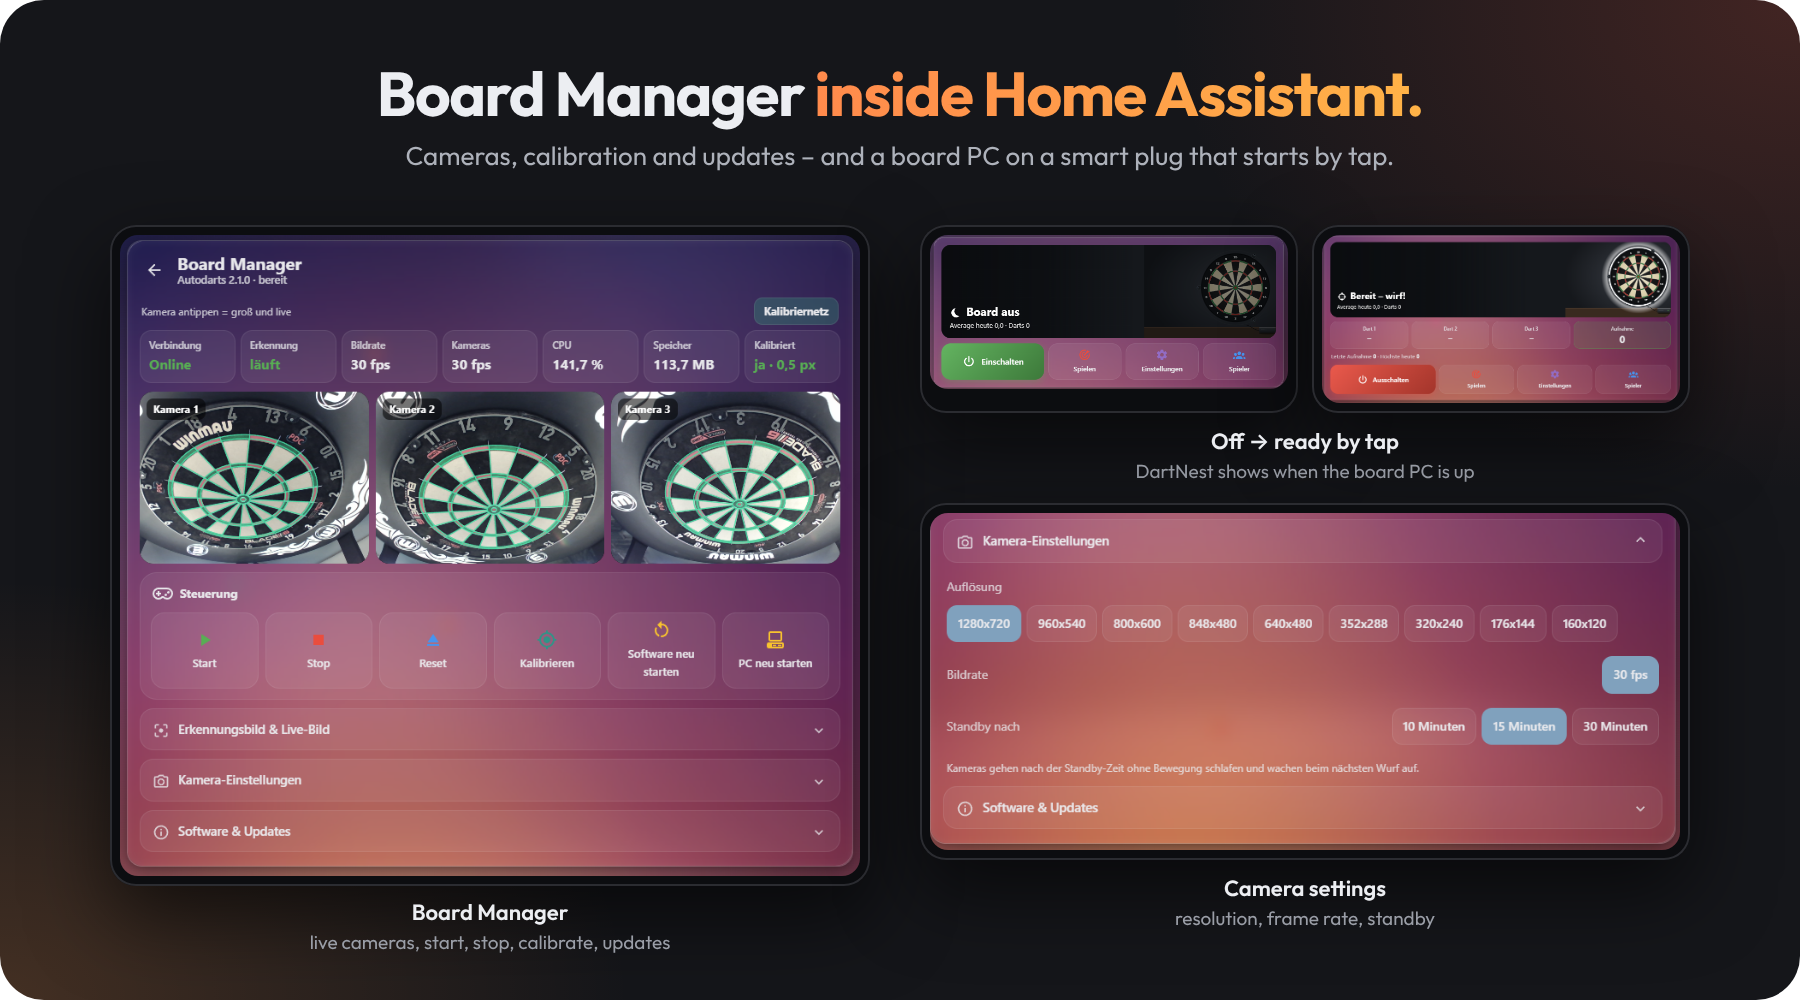
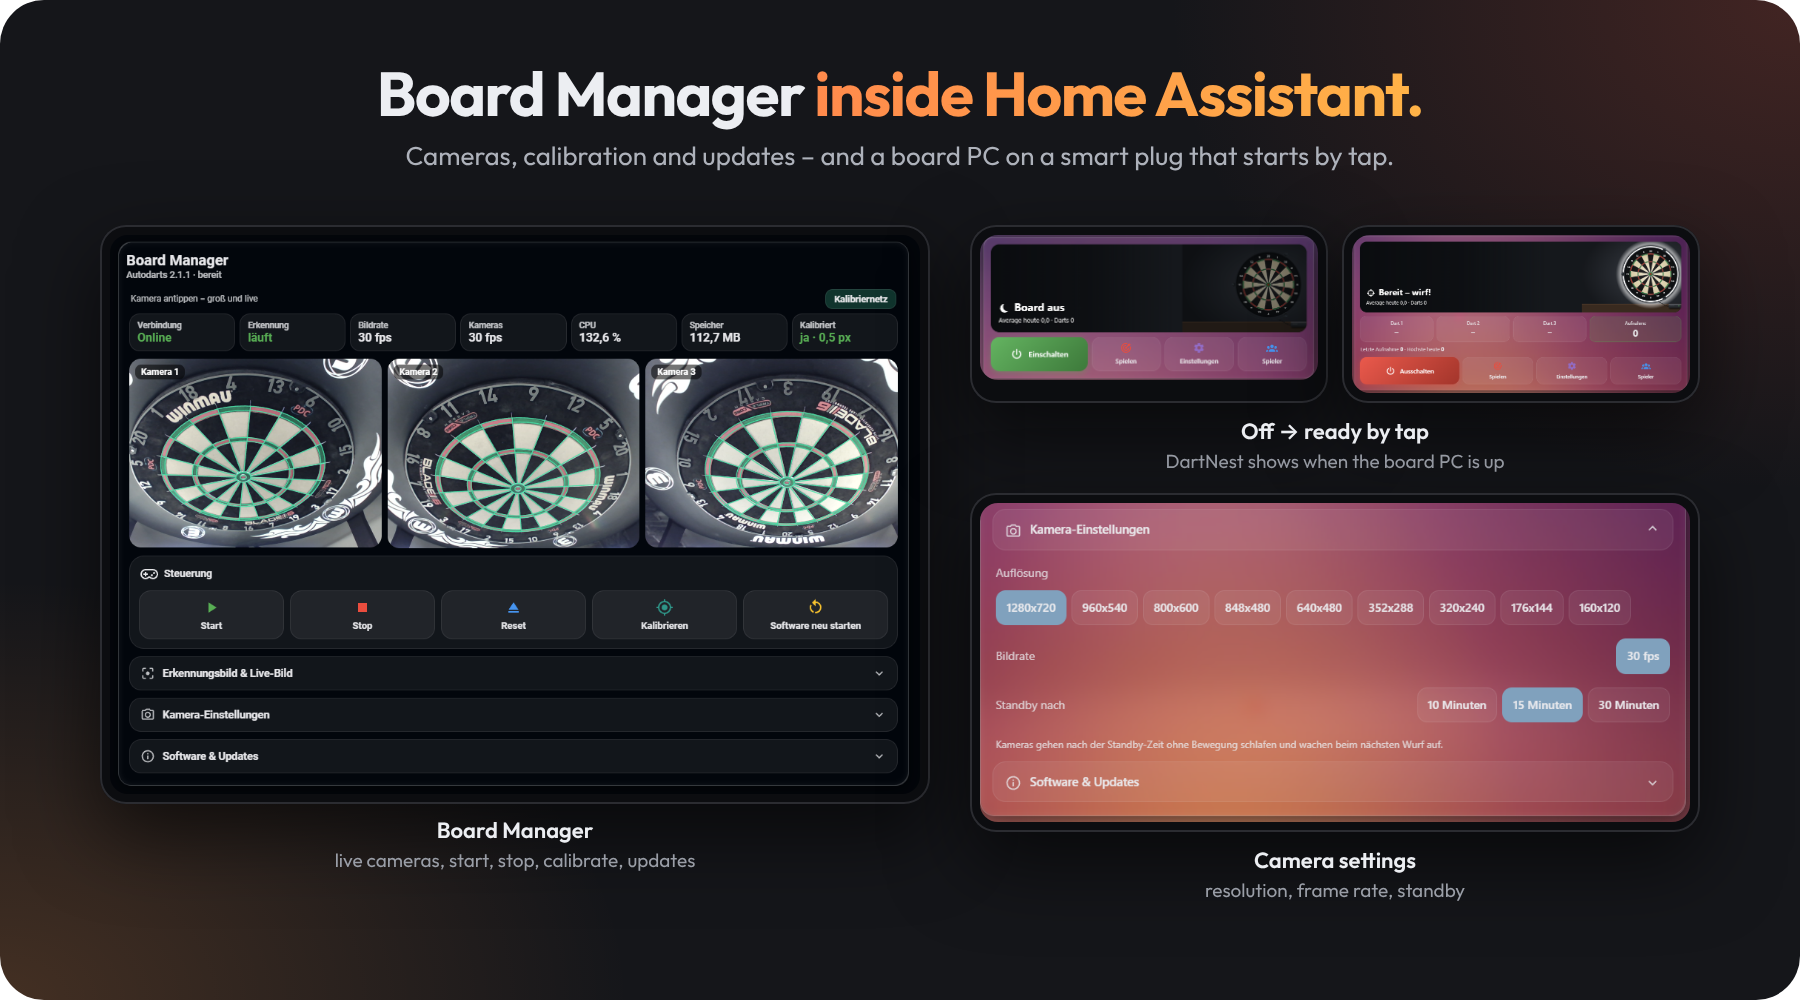
1.25.1: power button in the sidebar (#12)
* 1.25.1: power button in the sidebar (plug chosen once in the Board Manager)

Claude-Session: https://claude.ai/code/session_015s6FHNScWMw4AjePNoQubT

* Power plug: optional shut-down script, switch-on action and PC-running sensor

Claude-Session: https://claude.ai/code/session_015s6FHNScWMw4AjePNoQubT

* README: new real-board screenshots (dark theme) for the camera and Board Manager pictures

Claude-Session: https://claude.ai/code/session_015s6FHNScWMw4AjePNoQubT

---------

diff --git a/custom_components/autodarts/frontend/autodarts-cards.js b/custom_components/autodarts/frontend/autodarts-cards.js
@@ -292,6 +292,11 @@ button:disabled{opacity:.38;cursor:default;transform:none}
   };
   const gehe = pfad => { history.pushState(null, '', pfad); window.dispatchEvent(new CustomEvent('location-changed', { detail: { replace: false } })); };
   const att = (h, id) => (st(h, id) || {}).attributes || {};
+  // power plug of the board PC, chosen once in the Board Manager card; a card's own power_* options win
+  const stromCfg = h => {
+    const s = att(h, E(h, 'sensor.players')).strom || {};
+    return s.schalter || s.einschalten ? { power_on: s.einschalten || s.schalter, power_off: s.ausschalten || s.schalter, power_switch: s.schalter || undefined, power_sensor: s.leistung || undefined, pc_online: s.pc_online || undefined } : {};
+  };
   const ft = f => ({ S25: '25', D25: 'Bull', M: 'Miss' }[f] || f || '–');
   const pkt = f => { if (!f || f === 'M') return 0; return ({ S: 1, D: 2, T: 3 }[f[0]] || 0) * parseInt(f.slice(1), 10); };
   const esc = x => String(x == null ? '' : x).replace(/[&<>"]/g, c => ({ '&': '&amp;', '<': '&lt;', '>': '&gt;', '"': '&quot;' }[c]));
@@ -480,10 +485,16 @@ button:disabled{opacity:.38;cursor:default;transform:none}
 @media (max-width:520px){.szene{height:160px}.ueber{width:62%}.zt{font-size:20px}.knoepfe.haupt4{grid-template-columns:1fr 1fr 1fr}.k.haupt{grid-column:1/-1;min-height:56px}}`;
   class AutodartsOverviewCard extends HTMLElement {
     static getStubConfig() { return {}; }
-    setConfig(c) { this._c = Object.assign({}, c || {}); if (this._r) { this._r = null; this.shadowRoot.innerHTML = ''; } }
+    setConfig(c) { this._orig = Object.assign({}, c || {}); this._c = Object.assign({}, this._orig); this._stromKey = null; if (this._r) { this._r = null; this.shadowRoot.innerHTML = ''; } }
     getCardSize() { return 5; }
     getGridOptions() { return { columns: 12, min_columns: 6 }; }
-    set hass(h) { this._h = h; sprachePruefen(h); if (!this._r || this._spr !== SPR) this._bauen(); this._zeichnen(); }
+    set hass(h) {
+      this._h = h; sprachePruefen(h);
+      const sc = this._orig.power_on ? {} : stromCfg(h), key = JSON.stringify(sc);
+      if (key !== this._stromKey) { this._stromKey = key; this._c = Object.assign({}, sc, this._orig); this._r = null; }
+      if (!this._r || this._spr !== SPR) this._bauen();
+      this._zeichnen();
+    }
     _bauen() {
       this._spr = SPR;
       this._r = this.shadowRoot || this.attachShadow({ mode: 'open' });
@@ -598,6 +609,11 @@ button:disabled{opacity:.38;cursor:default;transform:none}
   customElements.define('autodarts-overview-card', AutodartsOverviewCard);
 
   /* ---------- Tile: one compact row with the board scene behind it, tap opens a window (1.24) ---------- */
+  // power plug of the board PC for every card (1.25.1)
+  Object.assign(TEXTE.en, { plug_title: 'Board PC power plug', plug_none: 'None', plug_switch: 'Power plug', plug_leistung: 'Power meter (optional)', plug_einschalten: 'Switch on with (optional)', plug_ausschalten: 'Shut down with (optional)', plug_pc_online: 'PC running (optional)', plug_pick: 'Choose …',
+    plug_hint: 'The plug the board PC is connected to. Every DartNest card – also in the sidebar – then shows the power button. With a power meter DartNest knows when the PC is really off. Have a script that shuts the PC down first? Choose it under “Shut down with”, otherwise the plug is simply switched off.' });
+  Object.assign(TEXTE.de, { plug_title: 'Steckdose des Board-PCs', plug_none: 'Keine', plug_switch: 'Steckdose', plug_leistung: 'Leistungsmesser (optional)', plug_einschalten: 'Einschalten mit (optional)', plug_ausschalten: 'Herunterfahren mit (optional)', plug_pc_online: 'PC läuft (optional)', plug_pick: 'Auswählen …',
+    plug_hint: 'Die Steckdose, an der der Board-PC hängt. Alle DartNest-Karten – auch in der Seitenleiste – zeigen dann den Ein/Aus-Knopf. Mit Leistungsmesser erkennt DartNest, wann der PC wirklich aus ist. Du hast ein Skript, das den PC erst herunterfährt? Dann wähle es bei „Herunterfahren mit“, sonst wird einfach die Steckdose ausgeschaltet.' });
   Object.assign(TEXTE.en, { d_tile: 'One compact row with the board scene behind it; tap opens a window with live darts, power, shortcuts and today', tile_tap: 'Tap for play, power and settings', today: 'Today', t_close: 'Close' });
   Object.assign(TEXTE.de, { d_tile: 'Eine kompakte Zeile mit der Board-Szene dahinter; Tippen öffnet ein Fenster mit Live-Würfen, Ein/Aus, Abkürzungen und Heute', tile_tap: 'Antippen für Spielen, Ein/Aus und Einstellungen', today: 'Heute', t_close: 'Schließen' });
   const SZ_F = { aus: GR, startet: A, runter: A, bereit: G, ziehen: A, kalib: '#26a69a', gestoppt: B, weg: A };
@@ -1816,7 +1832,7 @@ ha-card.fx-stoss{animation:fx-stoss .45s ease-out}
         s += '</div>';
       }
       if (!boardOnline(this._h) && !L.spieler.every(x => x.startsWith('bot:')))
-        s += '<div class="warn"><ha-icon icon="mdi:power-plug-off-outline"></ha-icon><span>' + t('board_off_hint') + '</span>' + (this._c.power_on ? '<button data-act="pcein">' + t('on') + '</button>' : '') + '</div>';
+        s += '<div class="warn"><ha-icon icon="mdi:power-plug-off-outline"></ha-icon><span>' + t('board_off_hint') + '</span>' + ((this._c.power_on || stromCfg(this._h).power_on) ? '<button data-act="pcein">' + t('on') + '</button>' : '') + '</div>';
       const gr = !tur && ART_SPIELER[L.spiel], falsch = gr && L.spieler.length && (L.spieler.length < gr[0] || L.spieler.length > gr[1]);
       if (falsch) s += '<div class="warn"><ha-icon icon="mdi:account-alert-outline"></ha-icon><span>' + t(gr[0] === gr[1] ? 'needs_exact' : 'needs_min', { g: t('a_' + L.spiel), n: gr[0] }) + '</span></div>';
       s += tur ? '<button class="start" data-act="turstart"><ha-icon icon="mdi:tournament"></ha-icon>' + t('start_tour') + '</button></div>'
@@ -2155,7 +2171,7 @@ ha-card.fx-stoss{animation:fx-stoss .45s ease-out}
           this._dienst('spieler_anlegen', { name });
           break;
         }
-        case 'pcein': if (this._c.power_on) ausloesen(h, this._c.power_on, false); break;
+        case 'pcein': { const ein = this._c.power_on || stromCfg(h).power_on; if (ein) ausloesen(h, ein, false); break; }
         case 'start': case 'turstart':
           this._dienst(act === 'turstart' ? 'turnier_starten' : 'spiel_starten', { spieler: L.spieler, spiel: L.spiel, startwert: L.startwert, legs: L.legs, sets: L.spiel === 'x01' ? L.sets : 0, einwurf: L.einwurf, auswurf: L.auswurf, bull_off: L.bull_off,
             variante: L.variante || '', zahlen: L.zahlen, runden: L.runden || 0, leben: L.leben, zielwert: L.zielwert || 0, ...(act === 'turstart' ? { turnier_modus: this._turMod || 'ko' } : {}) });
@@ -2190,6 +2206,11 @@ ha-card.fx-stoss{animation:fx-stoss .45s ease-out}
 
   /* ---------- Board Manager card ---------- */
   const MGR_CSS = `
+.ll{max-height:320px;overflow:auto;border-radius:14px;padding:4px}
+.ll label{display:flex;align-items:center;gap:10px;margin:0;padding:10px;border-radius:10px;font-size:14px;font-weight:500;color:var(--primary-text-color);cursor:pointer}
+.ll label:hover{background:color-mix(in srgb,var(--primary-text-color) 6%,transparent)}
+.ll label ha-icon{--mdc-icon-size:20px;color:var(--secondary-text-color)}
+.ll small{margin-left:auto;color:var(--secondary-text-color);font-size:11.5px}
 .werte{display:grid;grid-template-columns:repeat(auto-fit,minmax(104px,1fr));gap:6px;margin-bottom:10px}
 .wt{border-radius:14px;padding:8px 10px;cursor:pointer}
 .wt small{display:block;font-size:11.5px;color:var(--secondary-text-color);font-weight:600}
@@ -2300,6 +2321,13 @@ ha-card.fx-stoss{animation:fx-stoss .45s ease-out}
         s += '<div class="aufinhalt">' + sel(E(h, 'select.camera_resolution'), t('resolution')) + sel(E(h, 'select.camera_fps_setting'), t('fps'), o => o + ' fps') +
           sel(E(h, 'select.camera_standby'), t('standby'), o => (/^\d+$/.test(o) ? t('minutes', { n: o }) : o)) + '<div class="klein">' + t('standby_hint') + '</div></div>';
       }
+      const strom = att(h, E(h, 'sensor.players')).strom || {}, nm = id => id ? esc((st(h, id) && st(h, id).attributes.friendly_name) || id) : '–';
+      s += auf('strom', this._auf.strom, 'mdi:power-plug', t('plug_title'), strom.schalter ? nm(strom.schalter) : t('plug_none'));
+      if (this._auf.strom) {
+        s += '<div class="aufinhalt"><div class="reihe"><span>' + t('plug_switch') + '</span><div class="seg"><button class="feld" data-act="plugwahl" data-f="schalter">' + (strom.schalter ? nm(strom.schalter) : t('plug_pick')) + '</button></div></div>' +
+          (strom.schalter ? ['leistung', 'einschalten', 'ausschalten', 'pc_online'].map(f => '<div class="reihe"><span>' + t('plug_' + f) + '</span><div class="seg"><button class="feld" data-act="plugwahl" data-f="' + f + '">' + (strom[f] ? nm(strom[f]) : t('plug_pick')) + '</button></div></div>').join('') : '') +
+          '<div class="klein">' + t('plug_hint') + '</div></div>';
+      }
       s += auf('soft', this._auf.soft, 'mdi:information-outline', t('software'));
       if (this._auf.soft) {
         const a = att(h, S('software_version')), ub = st(h, E(h, 'update.board_software')), url = boardUrl(h);
@@ -2327,6 +2355,29 @@ ha-card.fx-stoss{animation:fx-stoss .45s ease-out}
       else if (act === 'sel') aktion(h, 'select', 'select_option', { entity_id: b.dataset.e, option: b.dataset.v });
       else if (act === 'upd') aktion(h, 'update', 'install', { entity_id: b.dataset.e });
       else if (act === 'orig') { const url = boardUrl(h); if (url) window.open(url, '_blank'); }
+      else if (act === 'plugwahl') this._plugWahl(b.dataset.f);
+      else if (act === 'plugsetz') {
+        const strom = Object.assign({ schalter: '', leistung: '', einschalten: '', ausschalten: '', pc_online: '' }, att(h, E(h, 'sensor.players')).strom || {});
+        strom[b.dataset.f] = b.dataset.v || '';
+        if (!strom.schalter) Object.keys(strom).forEach(k => { strom[k] = ''; });
+        this._dienst('strom_setzen', strom); this._modal(null);
+      }
+    }
+    _plugWahl(feld) {
+      // pick the plug (switch.*) or its power meter (sensor in W) from a searchable list
+      const h = this._h, name = id => (h.states[id].attributes.friendly_name || id);
+      const dom = id => id.split('.')[0], a = id => h.states[id].attributes;
+      const passt = id => feld === 'schalter' ? dom(id) === 'switch'
+        : feld === 'leistung' ? dom(id) === 'sensor' && (a(id).device_class === 'power' || a(id).unit_of_measurement === 'W')
+        : feld === 'pc_online' ? dom(id) === 'binary_sensor'
+        : ['script', 'button', 'input_button', 'automation'].includes(dom(id));
+      const eigen = id => ((h.entities || {})[id] || {}).platform === 'autodarts';
+      const alle = Object.keys(h.states).filter(id => passt(id) && !eigen(id) && h.states[id].state !== 'unavailable').sort((a, b) => name(a).localeCompare(name(b)));
+      const zeile = id => '<label data-act="plugsetz" data-f="' + feld + '" data-v="' + id + '"><ha-icon icon="' + ({ schalter: 'mdi:power-socket-eu', leistung: 'mdi:flash-outline', pc_online: 'mdi:desktop-classic' }[feld] || 'mdi:script-text-outline') + '"></ha-icon>' + esc(name(id)) + '<small>' + esc(id) + '</small></label>';
+      this._modal('<h3>' + t(feld === 'schalter' ? 'plug_switch' : 'plug_' + feld) + '</h3><input type="search" placeholder="' + t('search') + '"><div class="ll feld" style="margin-top:8px">' + alle.map(zeile).join('') +
+        '</div><div class="mknoepfe"><button class="feld" data-act="plugsetz" data-f="' + feld + '" data-v="">' + t('plug_none') + '</button><button class="feld" data-act="mzu">' + t('cancel') + '</button></div>');
+      const inp = this._r.querySelector('.modal input'), liste = this._r.querySelector('.modal .ll');
+      inp.addEventListener('input', () => { const q = inp.value.toLowerCase(); liste.querySelectorAll('label').forEach(l => { l.style.display = l.textContent.toLowerCase().includes(q) ? '' : 'none'; }); });
     }
   }
   customElements.define('autodarts-manager-card', AutodartsManagerCard);

diff --git a/custom_components/autodarts/services.py b/custom_components/autodarts/services.py
@@ -56,6 +56,13 @@ DIENSTE = {
         vol.Optional("loeschen", default=False): cv.boolean,
     }),
     "lichteffekte_setzen": vol.Schema({vol.Required("regeln"): [dict]}),
+    "strom_setzen": vol.Schema({
+        vol.Optional("schalter", default=""): vol.Any("", cv.entity_id),
+        vol.Optional("leistung", default=""): vol.Any("", cv.entity_id),
+        vol.Optional("einschalten", default=""): vol.Any("", cv.entity_id),
+        vol.Optional("ausschalten", default=""): vol.Any("", cv.entity_id),
+        vol.Optional("pc_online", default=""): vol.Any("", cv.entity_id),
+    }),
     "lichteffekt_testen": vol.Schema({vol.Required("regel"): dict}),
     "aufnahme_eintragen": vol.Schema({
         vol.Optional("spieler"): cv.string,
@@ -207,6 +214,8 @@ def async_setup_services(hass: HomeAssistant) -> None:
             await s.spieler_aendern(d["id"], d.get("name"), d["loeschen"])
         elif name == "statistik_loeschen":
             await s.statistik_loeschen(d.get("id"), d["verlauf"])
+        elif name == "strom_setzen":
+            await s.strom_setzen({k: d[k] for k in ("schalter", "leistung", "einschalten", "ausschalten", "pc_online")})
         elif name in ("lichteffekte_setzen", "lichteffekt_testen"):
             await _lichter(hass, name, d)
         elif name in ("ansager_setzen", "ansager_testen", "ansager_pack_erzeugen", "ansager_pack_loeschen", "ansager_pack_pruefen", "ansager_pack_anhalten"):

diff --git a/custom_components/autodarts/spiel.py b/custom_components/autodarts/spiel.py
@@ -846,7 +846,15 @@ class Spielleiter:
                 "gegen": pr.get("gegen", {}),
                 "abzeichen": auswertung.abzeichen(g, pr, beste),
             })
-        return {"spieler": liste, "verlauf": self.daten.get("verlauf", [])[:20], "letzte": self.daten.get("letzte")}
+        return {"spieler": liste, "verlauf": self.daten.get("verlauf", [])[:20], "letzte": self.daten.get("letzte"),
+                "strom": self.daten.get("strom") or {}}
+
+    async def strom_setzen(self, werte: dict[str, str]) -> None:
+        """Steckdose des Board-PCs für alle DartNest-Karten, optional mit Leistungsmesser,
+        eigenem Ein-/Ausschalten (z. B. Skript, das den PC erst herunterfährt) und PC-online-Sensor."""
+        self.daten["strom"] = {k: v for k, v in werte.items() if v}
+        self._speichern()
+        self._melden()
 
 
 async def _pause(sekunden: float) -> None:

diff --git a/tests/test_spiel.py b/tests/test_spiel.py
@@ -220,3 +220,12 @@ async def test_dienst_ohne_integration(hass: HomeAssistant, geladen) -> None:
 def test_modus_text() -> None:
     e = {"startwert": 501, "einwurf": "master", "auswurf": "straight", "legs": 3, "sets": 0}
     assert modus_text(e) == "501 · Master In · Straight Out · Erster bis 3 Legs"
+
+
+async def test_strom_fuer_alle_karten(hass: HomeAssistant, geladen) -> None:
+    """The power plug is stored once and shown to every card through the players sensor."""
+    await _dienst(hass, "strom_setzen", schalter="switch.darts", leistung="sensor.darts_watt", ausschalten="script.pc_aus")
+    a = hass.states.get(SPIELER).attributes
+    assert a["strom"] == {"schalter": "switch.darts", "leistung": "sensor.darts_watt", "ausschalten": "script.pc_aus"}
+    await _dienst(hass, "strom_setzen")
+    assert hass.states.get(SPIELER).attributes["strom"] == {}

diff --git a/README.md b/README.md
@@ -94,7 +94,7 @@ Average, first 9, checkout rate, rating, trend, badges, head to head and a ranki
 
 <p align="center"><img src="https://raw.githubusercontent.com/Wadim-dev/DartNest_ha/main/docs/images/manager.png" alt="Board Manager with cameras, power states and camera settings" width="900"></p>
 
-All three cameras with the calibration grid, start/stop, calibrate, camera settings and board software updates – without opening another web page. **Smart plug friendly:** switch the board PC off whenever you like. DartNest shows *Off* and carries on by itself when the board is back.
+All three cameras with the calibration grid, start/stop, calibrate, camera settings and board software updates – without opening another web page. **Smart plug friendly:** pick the plug of the board PC once under *Board Manager → Board PC power plug* – every DartNest screen then has the on/off button. DartNest shows *Off* and carries on by itself when the board is back.
 
 <sub>Screenshots with the German interface come from a real board at home.</sub>
 
@@ -675,7 +675,7 @@ Private project, no outside contributions. The code meets all rules of the Home 
 - **Feiern:** Stadion-Effekte bei 180, Checkout und Matchgewinn; Ansager in allen Spielarten mit Einlaufmusik je Spieler über Lautsprecher, Handy oder beides, mit Meisterschafts-Pack (Bühnen-Ansager-Stimme per Knopfdruck, jeder Punkte-Ton per Spracherkennung geprüft) oder eigenen Tönen; 18 Lichteffekte plus WLED-Effekte und -Presets per Klick.
 - **Besser werden:** Average, First 9, Checkout-Quote, Wertung, Trend, Abzeichen, direkter Vergleich, Rangliste und die **Zielhilfe** – wo du mit deiner Streuung am meisten triffst.
 - **Turniere:** K.-o. für 3–32 Spieler mit Turnierbaum oder Liga für 3–10 Spieler mit Tabelle.
-- **Board Manager in HA:** Kameras mit Kalibriernetz, Start/Stopp, Kalibrieren, Updates. Board-PC darf per Steckdose aus sein.
+- **Board Manager in HA:** Kameras mit Kalibriernetz, Start/Stopp, Kalibrieren, Updates. Board-PC darf per Steckdose aus sein: Steckdose einmal unter *Board Manager → Steckdose des Board-PCs* wählen, dann hat jede DartNest-Seite den Ein/Aus-Knopf.
 - **Überall:** PC, Tablet und Handy, Deutsch und Englisch, Sprachbefehle („Alex hat 140“) über Assist. Karten auch fürs eigene Dashboard: *Karte hinzufügen → „DartNest“ suchen*, z. B. die **DartNest-Kachel**: eine kompakte Zeile mit Board-Szene, Tippen öffnet ein Fenster mit allem.
 - **Updates** kommen über den Marketplace unter *Einstellungen → Updates*.
 

diff --git a/CHANGELOG.md b/CHANGELOG.md
@@ -3,6 +3,14 @@
 Each version lists the changes in English and German. The release notes on GitHub
 and in the Home Assistant update dialog are taken from this file automatically.
 
+## 1.25.1
+
+- The power button now also appears in the DartNest sidebar. Pick the plug of the board PC once under **Board Manager → Board PC power plug** (optionally with its power meter, a shut-down script and a "PC running" sensor); every DartNest card uses it. Cards with their own `power_on` keep it. New action `autodarts.strom_setzen`.
+
+**Deutsch**
+
+- Der Ein/Aus-Knopf erscheint jetzt auch in der DartNest-Seitenleiste. Die Steckdose des Board-PCs einmal unter **Board Manager → Steckdose des Board-PCs** wählen (optional mit Leistungsmesser, Herunterfahr-Skript und „PC läuft“-Sensor); alle DartNest-Karten nutzen sie. Karten mit eigenem `power_on` behalten ihre Einstellung. Neue Aktion `autodarts.strom_setzen`.
+
 ## 1.25.0
 
 - **29 games.** New in Cricket: **Tactics** and **Hidden** numbers (six random numbers that show up when someone hits them), **Wild Mouse** (plus any double, any treble and 3 in a bed) and **Mickey Mouse** (20–12, doubles, trebles, bull). New training: **Singles**, **Checkout Training** (random finishes, the same for everyone), **Catch 40** and the **JDC Challenge**. New party games: **Bermuda**, **Round the World**, **Gotcha**, **Nine Lives**, **Football** and **Scram**. Highscore is now called **Count-Up** (8 visits).
